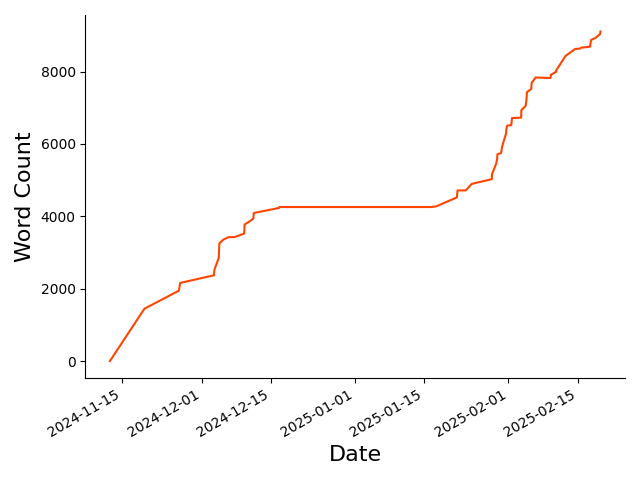
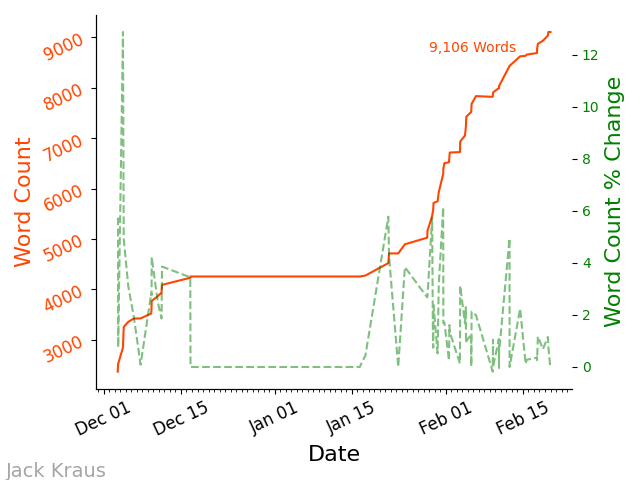
progress tracker update, added % diff

diff --git a/progressTracking/plotProgress.py b/progressTracking/plotProgress.py
@@ -1,10 +1,3 @@
-# code cred goes to Tyler Burch
-
-# To start, you'll need to remove all `progress.csv` entries 
-#       (except the headers in the first line) and then
-#       you should be able to run the update script:
-#       $ ./updateProgress.sh 
-
 from datetime import datetime
 import pandas as pd
 import matplotlib.pyplot as plt
@@ -14,82 +7,129 @@ import seaborn as sns
 # Adjust this to the path for your thesis/progressTracking directory
 savedir = "/Users/jackkraus/Desktop/masters-thesis/Jack-MS-Thesis-Draft/progressTracking/"
 
+yourname= "Jack Kraus"
+
 # Adjust this to the path you want the progress.csv to show up 
 df = pd.read_csv('/Users/jackkraus/Desktop/masters-thesis/Jack-MS-Thesis-Draft/progressTracking/progress.csv')
 
 df['timestamp_fixed'] = pd.to_datetime(df['timestamp'], format="%Y-%m-%d %H:%M:%S")
 df = df.set_index('timestamp_fixed')
 
-current_pagecount = df["pagecount"].iloc[-1]
-current_wordcount = df["wordcount"].iloc[-1]
+# Define the start and end dates for the range you want to check
+start_date = '2024-12-01'
+end_date = '2025-02-19'
+
+# Filter the DataFrame for the specified date range
+filtered_df = df.loc[start_date:end_date]
+
+# Calculate percent change for pagecount and wordcount
+filtered_df['pagecount_pct_change'] = filtered_df['pagecount'].pct_change() * 100
+filtered_df['wordcount_pct_change'] = filtered_df['wordcount'].pct_change() * 100
+
+# Print the filtered DataFrame with percent change
+print("Filtered DataFrame with Percent Change:")
+print(filtered_df[['pagecount', 'pagecount_pct_change', 'wordcount', 'wordcount_pct_change']])
+
+# Use the last values from the filtered DataFrame for annotations
+current_pagecount = filtered_df["pagecount"].iloc[-1]
+current_wordcount = filtered_df["wordcount"].iloc[-1]
 
 wc_color="orangered"
 pc_color="royalblue"
+pct_color="green"  # Color for percent change lines
 
 # Adjust this to your name
-def add_watermark(text="Jack Kraus"):
+def add_watermark(text=yourname):
     """
     adds watermark to lower left corner of matplotlib plot
     """
-    print(f"Adding watermark: {text}")  # Debugging print statement
+    # print(f"Adding watermark: {text}")  # Debugging print statement
     plt.annotate(text, xy=(.01,.007), xycoords='figure fraction',
                  textcoords='figure fraction', color='grey',alpha=0.7, fontsize=14)
 
-# Plot 1
-df.plot(y='wordcount', legend=None, color=wc_color)
-plt.xlabel('Date',fontsize=16)
-plt.ylabel('Word Count',fontsize=16)
-sns.despine()
-plt.tight_layout()
-plt.savefig(savedir+'plots/wordcount.png')
-plt.close()
-
-# Plot 2
-df.plot(y='pagecount',legend=None, color=pc_color)
-plt.xlabel('Date',fontsize=16)
-plt.ylabel('Page Count',fontsize=16)
-sns.despine()
-plt.tight_layout()
-plt.savefig(savedir+'plots/pagecount.png')
-plt.close()
-
-# Combined Plot
+# Combined Plot with Percent Change
 months = mdates.MonthLocator()  # every month
-days = mdates.DayLocator()  # every dat
+days = mdates.DayLocator()  # every day
 date_fmt = mdates.DateFormatter('%b %d')
 
-fig, ax = plt.figure(), plt.gca()
-ax2= ax.twinx()
-df.plot(y='pagecount',legend=None, ax=ax, color=pc_color)
-df.plot(y='wordcount', legend=None, ax=ax2, color=wc_color)
 
-ax.set_ylabel("Page Count", fontsize=16, color=pc_color)
-ax2.set_ylabel("Word Count", fontsize=16,color=wc_color)
-ax.set_xlabel('Date',fontsize=16)
-ax.set_ylim(ymin=0)
+# Plot 1: Word Count and Percent Change
+fig, ax1 = plt.subplots()
+ax1.set_xlabel('Date', fontsize=16)
+ax1.set_ylabel('Word Count', fontsize=16, color=wc_color)
+ax1.plot(filtered_df.index, filtered_df['wordcount'], color=wc_color, label='Word Count')
+ax1.tick_params(axis='y', labelcolor=wc_color)
+
+ax1.xaxis.set_minor_locator(days)
+ax1.xaxis.set_major_formatter(date_fmt)
+
+# Add percent change for word count
+ax2 = ax1.twinx()
+ax2.set_ylabel('Word Count % Change', fontsize=16, color=pct_color)
+ax2.plot(filtered_df.index, filtered_df['wordcount_pct_change'], color=pct_color, linestyle='dashed', alpha=0.5, label='Word Count % Change')
+ax2.tick_params(axis='y', labelcolor=pct_color)
+
+plt.annotate("{:,d} Words".format(current_wordcount), xy=(.7,.9), xycoords="axes fraction",color=wc_color, fontsize=10)
+
+
+sns.despine()
+ax1.tick_params(labelsize=12,rotation=25)
+plt.tight_layout()
+add_watermark()
+plt.savefig(savedir+'plots/wordcount.png')  # Save with a new name
+plt.close()
+
+# Plot 2: Page Count and Percent Change
+fig, ax1 = plt.subplots()
+ax1.xaxis.set_minor_locator(days)
+ax1.xaxis.set_major_formatter(date_fmt)
+ax1.set_xlabel('Date', fontsize=16)
+ax1.set_ylabel('Page Count', fontsize=16, color=pc_color)
+ax1.plot(filtered_df.index, filtered_df['pagecount'], color=pc_color, label='Page Count')
+ax1.tick_params(axis='y', labelcolor=pc_color)
+
+
+# Add percent change for page count
+ax2 = ax1.twinx()
+ax2.set_ylabel('Page Count % Change', fontsize=16, color=pct_color)
+ax2.plot(filtered_df.index, filtered_df['pagecount_pct_change'], color=pct_color, linestyle='dashed', alpha=0.5, label='Page Count % Change')
+ax2.tick_params(axis='y', labelcolor=pct_color)
+
+plt.annotate("{:,d} Pages".format(current_pagecount), xy=(.7,.9), xycoords="axes fraction",color=pc_color, fontsize=10)
+
+sns.despine()
+ax1.tick_params(labelsize=12,rotation=25)
+plt.tight_layout()
+add_watermark()
+plt.savefig(savedir+'plots/pagecount.png')  # Save with a new name
+plt.close()
+
+
+fig, ax1 = plt.subplots()
+ax2 = ax1.twinx()
+
+# Plot pagecount and wordcount
+ax1.plot(filtered_df.index, filtered_df['pagecount'], color=pc_color, label='Page Count')
+ax2.plot(filtered_df.index, filtered_df['wordcount'], color=wc_color, label='Word Count')
+
+# Plot percent change for pagecount and wordcount
+# ax1.plot(filtered_df.index, filtered_df['pagecount_pct_change'], color=pc_color, linestyle='--', label='Page Count % Change')
+# ax2.plot(filtered_df.index, filtered_df['wordcount_pct_change'], color=wc_color, linestyle='--', label='Word Count % Change')
+
+ax1.set_ylabel("Page Count", fontsize=16, color=pc_color)
+ax2.set_ylabel("Word Count", fontsize=16, color=wc_color)
+ax1.set_xlabel('Date', fontsize=16)
+ax1.set_ylim(ymin=0)
 ax2.set_ylim(ymin=0)
 
-plt.annotate("{:,d} Pages".format(current_pagecount), xy=(.05,.88), xycoords="axes fraction",color=pc_color, fontsize=12)
-plt.annotate("{:,d} Words".format(current_wordcount), xy=(.05,.8), xycoords="axes fraction",color=wc_color, fontsize=12)
+plt.annotate("{:,d} Pages".format(current_pagecount), xy=(.05,.88), xycoords="axes fraction",color=pc_color, fontsize=10)
+plt.annotate("{:,d} Words".format(current_wordcount), xy=(.05,.8), xycoords="axes fraction",color=wc_color, fontsize=10)
 
-# ax.xaxis.set_major_locator(months)
-ax.xaxis.set_minor_locator(days)
-ax.xaxis.set_major_formatter(date_fmt)
+ax1.xaxis.set_minor_locator(days)
+ax1.xaxis.set_major_formatter(date_fmt)
 
-# Add key dates
-"""
-dates = {}
-dates["Detector chapter \nsent for edits "] = "2019-09-22 15:30:00"
-dates["Theory chapter \nsent for edits "] = "2019-10-20 21:57:00"
-
-for title,dt in dates.items():
-    xloc = pd.to_datetime(dt)
-    ax.axvline(x=xloc, color='firebrick', linestyle='--',)
-    plt.annotate(title, xy=(xloc, 100), color="firebrick", fontsize=10, ha="right")
-"""
-
-ax.tick_params(labelsize=12)
+ax1.tick_params(labelsize=12,rotation=25)
 ax2.tick_params(labelsize=12)
 plt.tight_layout()
 add_watermark()
-plt.savefig(savedir+"plots/combinedProgress.png")
+plt.savefig(savedir+"plots/combinedProgress.png")  # Save with a new name
